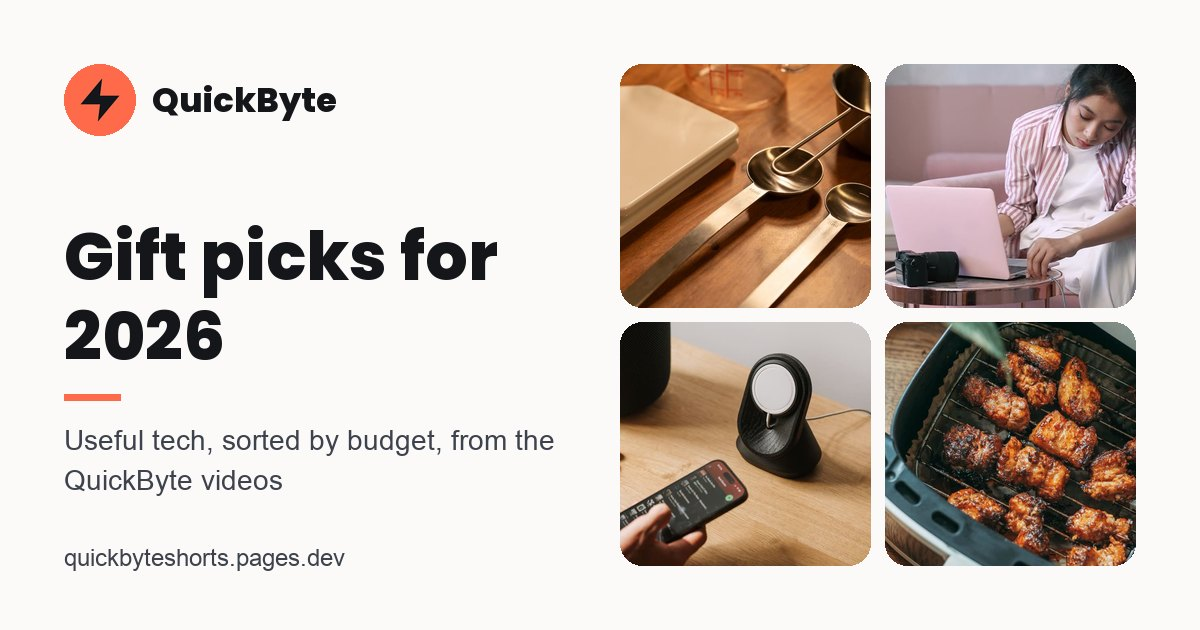
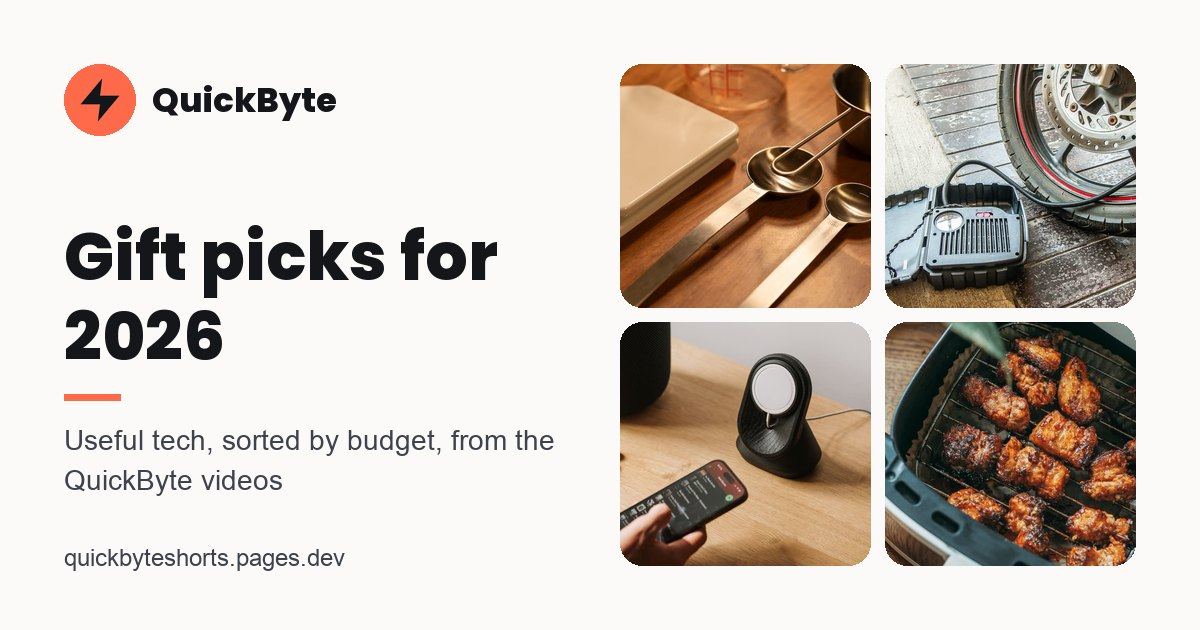
Automated cycle: update landing page

Changed region(s): [[0.74, 0.0905, 0.9558, 0.5127]]

diff --git a/docs/index.html b/docs/index.html
@@ -89,7 +89,7 @@ footer{color:var(--muted);font-size:.82rem;text-align:center;padding:24px 20px 3
 footer a{color:inherit}
 @media (max-width:520px){.season{font-size:1.45rem}.wrap{padding-top:26px}.feature .name{font-size:1.15rem}}
 </style>
-<script type="application/ld+json">{"@context": "https://schema.org", "@graph": [{"@type": "WebSite", "@id": "https://quickbyteshorts.pages.dev/#website", "name": "QuickByte", "url": "https://quickbyteshorts.pages.dev/", "description": "Short videos on which tech is worth buying, and which isn't"}, {"@type": "ItemList", "name": "Gift picks for 2026", "numberOfItems": 36, "itemListElement": [{"@type": "ListItem", "position": 1, "name": "Digital kitchen scale", "url": "https://quickbyteshorts.pages.dev/#pick-kitchen-scale"}, {"@type": "ListItem", "position": 2, "name": "ThermoPro TP19H instant-read thermometer", "url": "https://quickbyteshorts.pages.dev/#pick-thermopro-tp19h"}, {"@type": "ListItem", "position": 3, "name": "Tile Mate tracker", "url": "https://quickbyteshorts.pages.dev/#pick-tile-mate"}, {"@type": "ListItem", "position": 4, "name": "Anker Nano 30W USB-C charger", "url": "https://quickbyteshorts.pages.dev/#pick-anker-nano-charger"}, {"@type": "ListItem", "position": 5, "name": "UGREEN 240W USB-C cable (USB4)", "url": "https://quickbyteshorts.pages.dev/#pick-ugreen-usb4-cable"}, {"@type": "ListItem", "position": 6, "name": "65W two-port USB-C charger", "url": "https://quickbyteshorts.pages.dev/#pick-usb-c-65w-charger"}, {"@type": "ListItem", "position": 7, "name": "5-speed hand mixer", "url": "https://quickbyteshorts.pages.dev/#pick-hand-mixer"}, {"@type": "ListItem", "position": 8, "name": "Anker Nano power bank (10,000mAh)", "url": "https://quickbyteshorts.pages.dev/#pick-anker-nano-power-bank"}, {"@type": "ListItem", "position": 9, "name": "Redragon K552 mechanical keyboard", "url": "https://quickbyteshorts.pages.dev/#pick-redragon-k552-keyboard"}, {"@type": "ListItem", "position": 10, "name": "Echo Pop or Nest Mini", "url": "https://quickbyteshorts.pages.dev/#pick-smart-speaker"}, {"@type": "ListItem", "position": 11, "name": "4K streaming stick", "url": "https://quickbyteshorts.pages.dev/#pick-streaming-stick"}, {"@type": "ListItem", "position": 12, "name": "Belkin Qi2 magnetic charger", "url": "https://quickbyteshorts.pages.dev/#pick-belkin-qi2-charger"}, {"@type": "ListItem", "position": 13, "name": "Qi2 3-in-1 stand with Apple Watch charger", "url": "https://quickbyteshorts.pages.dev/#pick-qi2-3-in-1-stand"}, {"@type": "ListItem", "position": 14, "name": "IP67 clip-on Bluetooth speaker", "url": "https://quickbyteshorts.pages.dev/#pick-ip67-bluetooth-speaker"}, {"@type": "ListItem", "position": 15, "name": "Soundcore Liberty 4 NC earbuds", "url": "https://quickbyteshorts.pages.dev/#pick-soundcore-liberty-4-nc"}, {"@type": "ListItem", "position": 16, "name": "Variable-temperature gooseneck kettle", "url": "https://quickbyteshorts.pages.dev/#pick-gooseneck-kettle"}, {"@type": "ListItem", "position": 17, "name": "Cosori Pro LE 5-quart air fryer", "url": "https://quickbyteshorts.pages.dev/#pick-cosori-air-fryer-5qt"}, {"@type": "ListItem", "position": 18, "name": "Kodak Step mini photo printer", "url": "https://quickbyteshorts.pages.dev/#pick-kodak-step-printer"}, {"@type": "ListItem", "position": 19, "name": "Dual-basket air fryer (8 qt)", "url": "https://quickbyteshorts.pages.dev/#pick-dual-basket-air-fryer"}, {"@type": "ListItem", "position": 20, "name": "1080p mini projector with Google TV", "url": "https://quickbyteshorts.pages.dev/#pick-mini-projector-google-tv"}, {"@type": "ListItem", "position": 21, "name": "Wi-Fi photo frame", "url": "https://quickbyteshorts.pages.dev/#pick-wifi-photo-frame"}, {"@type": "ListItem", "position": 22, "name": "Baratza Encore burr grinder", "url": "https://quickbyteshorts.pages.dev/#pick-baratza-encore"}, {"@type": "ListItem", "position": 23, "name": "Kindle Paperwhite", "url": "https://quickbyteshorts.pages.dev/#pick-kindle-paperwhite"}, {"@type": "ListItem", "position": 24, "name": "MagicFiber microfiber cloths (6-pack)", "url": "https://quickbyteshorts.pages.dev/#pick-magicfiber-cloths"}, {"@type": "ListItem", "position": 25, "name": "Cordless tire inflator", "url": "https://quickbyteshorts.pages.dev/#pick-cordless-tire-inflator"}, {"@type": "ListItem", "position": 26, "name": "Wireless meat thermometer", "url": "https://quickbyteshorts.pages.dev/#pick-wireless-meat-thermometer"}, {"@type": "ListItem", "position": 27, "name": "1TB portable SSD (USB-C)", "url": "https://quickbyteshorts.pages.dev/#pick-portable-ssd-1tb"}, {"@type": "ListItem", "position": 28, "name": "Instax Mini instant camera", "url": "https://quickbyteshorts.pages.dev/#pick-instax-mini"}, {"@type": "ListItem", "position": 29, "name": "Sunrise alarm clock", "url": "https://quickbyteshorts.pages.dev/#pick-sunrise-alarm-clock"}, {"@type": "ListItem", "position": 30, "name": "Portable car jump starter", "url": "https://quickbyteshorts.pages.dev/#pick-portable-jump-starter"}, {"@type": "ListItem", "position": 31, "name": "Video doorbell with local storage", "url": "https://quickbyteshorts.pages.dev/#pick-video-doorbell-local"}, {"@type": "ListItem", "position": 32, "name": "Smart bird feeder with camera", "url": "https://quickbyteshorts.pages.dev/#pick-smart-bird-feeder"}, {"@type": "ListItem", "position": 33, "name": "Leave-in probe meat thermometer", "url": "https://quickbyteshorts.pages.dev/#pick-leave-in-meat-thermometer"}, {"@type": "ListItem", "position": 34, "name": "Samsung 870 EVO SSD (500GB)", "url": "https://quickbyteshorts.pages.dev/#pick-samsung-870-evo-ssd"}, {"@type": "ListItem", "position": 35, "name": "Robot vacuum with lidar", "url": "https://quickbyteshorts.pages.dev/#pick-lidar-robot-vacuum"}, {"@type": "ListItem", "position": 36, "name": "27-inch 1440p monitor", "url": "https://quickbyteshorts.pages.dev/#pick-monitor-27-1440p"}]}]}</script>
+<script type="application/ld+json">{"@context": "https://schema.org", "@graph": [{"@type": "WebSite", "@id": "https://quickbyteshorts.pages.dev/#website", "name": "QuickByte", "url": "https://quickbyteshorts.pages.dev/", "description": "Short videos on which tech is worth buying, and which isn't"}, {"@type": "ItemList", "name": "Gift picks for 2026", "numberOfItems": 36, "itemListElement": [{"@type": "ListItem", "position": 1, "name": "Digital kitchen scale", "url": "https://quickbyteshorts.pages.dev/#pick-kitchen-scale"}, {"@type": "ListItem", "position": 2, "name": "ThermoPro TP19H instant-read thermometer", "url": "https://quickbyteshorts.pages.dev/#pick-thermopro-tp19h"}, {"@type": "ListItem", "position": 3, "name": "Tile Mate tracker", "url": "https://quickbyteshorts.pages.dev/#pick-tile-mate"}, {"@type": "ListItem", "position": 4, "name": "Anker Nano 30W USB-C charger", "url": "https://quickbyteshorts.pages.dev/#pick-anker-nano-charger"}, {"@type": "ListItem", "position": 5, "name": "UGREEN 240W USB-C cable (USB4)", "url": "https://quickbyteshorts.pages.dev/#pick-ugreen-usb4-cable"}, {"@type": "ListItem", "position": 6, "name": "Cordless tire inflator", "url": "https://quickbyteshorts.pages.dev/#pick-cordless-tire-inflator"}, {"@type": "ListItem", "position": 7, "name": "65W two-port USB-C charger", "url": "https://quickbyteshorts.pages.dev/#pick-usb-c-65w-charger"}, {"@type": "ListItem", "position": 8, "name": "5-speed hand mixer", "url": "https://quickbyteshorts.pages.dev/#pick-hand-mixer"}, {"@type": "ListItem", "position": 9, "name": "Anker Nano power bank (10,000mAh)", "url": "https://quickbyteshorts.pages.dev/#pick-anker-nano-power-bank"}, {"@type": "ListItem", "position": 10, "name": "Redragon K552 mechanical keyboard", "url": "https://quickbyteshorts.pages.dev/#pick-redragon-k552-keyboard"}, {"@type": "ListItem", "position": 11, "name": "Echo Pop or Nest Mini", "url": "https://quickbyteshorts.pages.dev/#pick-smart-speaker"}, {"@type": "ListItem", "position": 12, "name": "4K streaming stick", "url": "https://quickbyteshorts.pages.dev/#pick-streaming-stick"}, {"@type": "ListItem", "position": 13, "name": "Belkin Qi2 magnetic charger", "url": "https://quickbyteshorts.pages.dev/#pick-belkin-qi2-charger"}, {"@type": "ListItem", "position": 14, "name": "Qi2 3-in-1 stand with Apple Watch charger", "url": "https://quickbyteshorts.pages.dev/#pick-qi2-3-in-1-stand"}, {"@type": "ListItem", "position": 15, "name": "IP67 clip-on Bluetooth speaker", "url": "https://quickbyteshorts.pages.dev/#pick-ip67-bluetooth-speaker"}, {"@type": "ListItem", "position": 16, "name": "Soundcore Liberty 4 NC earbuds", "url": "https://quickbyteshorts.pages.dev/#pick-soundcore-liberty-4-nc"}, {"@type": "ListItem", "position": 17, "name": "Variable-temperature gooseneck kettle", "url": "https://quickbyteshorts.pages.dev/#pick-gooseneck-kettle"}, {"@type": "ListItem", "position": 18, "name": "Cosori Pro LE 5-quart air fryer", "url": "https://quickbyteshorts.pages.dev/#pick-cosori-air-fryer-5qt"}, {"@type": "ListItem", "position": 19, "name": "Kodak Step mini photo printer", "url": "https://quickbyteshorts.pages.dev/#pick-kodak-step-printer"}, {"@type": "ListItem", "position": 20, "name": "Dual-basket air fryer (8 qt)", "url": "https://quickbyteshorts.pages.dev/#pick-dual-basket-air-fryer"}, {"@type": "ListItem", "position": 21, "name": "1080p mini projector with Google TV", "url": "https://quickbyteshorts.pages.dev/#pick-mini-projector-google-tv"}, {"@type": "ListItem", "position": 22, "name": "Wi-Fi photo frame", "url": "https://quickbyteshorts.pages.dev/#pick-wifi-photo-frame"}, {"@type": "ListItem", "position": 23, "name": "Baratza Encore burr grinder", "url": "https://quickbyteshorts.pages.dev/#pick-baratza-encore"}, {"@type": "ListItem", "position": 24, "name": "Kindle Paperwhite", "url": "https://quickbyteshorts.pages.dev/#pick-kindle-paperwhite"}, {"@type": "ListItem", "position": 25, "name": "MagicFiber microfiber cloths (6-pack)", "url": "https://quickbyteshorts.pages.dev/#pick-magicfiber-cloths"}, {"@type": "ListItem", "position": 26, "name": "Wireless meat thermometer", "url": "https://quickbyteshorts.pages.dev/#pick-wireless-meat-thermometer"}, {"@type": "ListItem", "position": 27, "name": "1TB portable SSD (USB-C)", "url": "https://quickbyteshorts.pages.dev/#pick-portable-ssd-1tb"}, {"@type": "ListItem", "position": 28, "name": "Instax Mini instant camera", "url": "https://quickbyteshorts.pages.dev/#pick-instax-mini"}, {"@type": "ListItem", "position": 29, "name": "Sunrise alarm clock", "url": "https://quickbyteshorts.pages.dev/#pick-sunrise-alarm-clock"}, {"@type": "ListItem", "position": 30, "name": "Portable car jump starter", "url": "https://quickbyteshorts.pages.dev/#pick-portable-jump-starter"}, {"@type": "ListItem", "position": 31, "name": "Video doorbell with local storage", "url": "https://quickbyteshorts.pages.dev/#pick-video-doorbell-local"}, {"@type": "ListItem", "position": 32, "name": "Smart bird feeder with camera", "url": "https://quickbyteshorts.pages.dev/#pick-smart-bird-feeder"}, {"@type": "ListItem", "position": 33, "name": "Leave-in probe meat thermometer", "url": "https://quickbyteshorts.pages.dev/#pick-leave-in-meat-thermometer"}, {"@type": "ListItem", "position": 34, "name": "Samsung 870 EVO SSD (500GB)", "url": "https://quickbyteshorts.pages.dev/#pick-samsung-870-evo-ssd"}, {"@type": "ListItem", "position": 35, "name": "Robot vacuum with lidar", "url": "https://quickbyteshorts.pages.dev/#pick-lidar-robot-vacuum"}, {"@type": "ListItem", "position": 36, "name": "27-inch 1440p monitor", "url": "https://quickbyteshorts.pages.dev/#pick-monitor-27-1440p"}]}]}</script>
 </head>
 <body>
 <div class="wrap">
@@ -98,7 +98,11 @@ footer a{color:inherit}
 <nav class="socials" aria-label="QuickByte on social media"><a href="https://www.youtube.com/@quickbytetips" target="_blank" rel="noopener me">YouTube</a><a href="https://www.tiktok.com/@quickbytetips" target="_blank" rel="noopener me">TikTok</a><a href="https://www.instagram.com/quickbytetips" target="_blank" rel="noopener me">Instagram</a></nav>
 <p class="disc">The Amazon links on this page are affiliate links. As an Amazon Associate I earn from qualifying purchases.</p>
 <main>
-<section class="latest" aria-labelledby="latest-h"><h2 id="latest-h">From recent videos</h2><div class="grid wide"><article class="pick compact"><div class="ph"><picture><source type="image/webp" srcset="img/qi2-3-in-1-charging-stand-with-apple-watch-charger-480.webp 480w, img/qi2-3-in-1-charging-stand-with-apple-watch-charger-800.webp 800w" sizes="160px"><img src="img/qi2-3-in-1-charging-stand-with-apple-watch-charger.jpg" alt="" width="800" height="600" fetchpriority="high" decoding="async"></picture></div><div class="body">
+<section class="latest" aria-labelledby="latest-h"><h2 id="latest-h">From today's video</h2><article class="feature"><div class="ph"><picture><source type="image/webp" srcset="img/cordless-tire-inflator-480.webp 480w, img/cordless-tire-inflator-800.webp 800w" sizes="(max-width:700px) calc(100vw - 40px), 500px"><img src="img/cordless-tire-inflator.jpg" alt="" width="800" height="600" fetchpriority="high" decoding="async"></picture></div><div class="body">
+<h3 class="name">Cordless tire inflator</h3>
+<p class="seen">From the video: Gifts for him under $50: three he&#x27;ll use before New Year&#x27;s</p><p class="note">You set the PSI and it stops on its own when the tire gets there, so no more coin-op air machines.</p>
+<div class="row"><a class="buy" href="https://www.amazon.com/s?k=cordless+tire+inflator&amp;tag=quickbyte0f-20" target="_blank" rel="sponsored nofollow noopener">See it on Amazon</a><span class="paid">Paid link</span></div>
+</div></article><h2>Also from recent videos</h2><div class="grid wide"><article class="pick compact"><div class="ph"><picture><source type="image/webp" srcset="img/qi2-3-in-1-charging-stand-with-apple-watch-charger-480.webp 480w, img/qi2-3-in-1-charging-stand-with-apple-watch-charger-800.webp 800w" sizes="160px"><img src="img/qi2-3-in-1-charging-stand-with-apple-watch-charger.jpg" alt="" width="800" height="600" loading="lazy" decoding="async"></picture></div><div class="body">
 <h3 class="name">Qi2 3-in-1 stand with Apple Watch charger</h3>
 <p class="seen">From: Gifts for dad: these 3-in-1 chargers look identical, only one charges his watch</p><p class="note">Charges an iPhone, AirPods and an Apple Watch overnight, because the watch gets its own puck instead of a flat pad.</p>
 <div class="row"><a class="buy" href="https://www.amazon.com/s?k=qi2+3+in+1+charging+station+apple+watch&amp;tag=quickbyte0f-20" target="_blank" rel="sponsored nofollow noopener">See it on Amazon</a><span class="paid">Paid link</span><a class="watch" href="https://www.youtube.com/shorts/kk6bP5S8-lk" target="_blank" rel="noopener">Watch the video</a></div>
@@ -106,10 +110,6 @@ footer a{color:inherit}
 <h3 class="name">Robot vacuum with lidar</h3>
 <p class="seen">From: Robot vacuum on sale? Check for lidar before you buy</p><p class="note">The spinning lidar turret maps your rooms, so it cleans in rows instead of bumping around and missing spots.</p>
 <div class="row"><a class="buy" href="https://www.amazon.com/s?k=lidar+robot+vacuum&amp;tag=quickbyte0f-20" target="_blank" rel="sponsored nofollow noopener">See it on Amazon</a><span class="paid">Paid link</span><a class="watch" href="https://www.youtube.com/shorts/zjNCF1It7sI" target="_blank" rel="noopener">Watch the video</a></div>
-</div></article><article class="pick compact"><div class="ph"><picture><source type="image/webp" srcset="img/ip67-clip-on-bluetooth-speaker-480.webp 480w, img/ip67-clip-on-bluetooth-speaker-800.webp 800w" sizes="160px"><img src="img/ip67-clip-on-bluetooth-speaker.jpg" alt="" width="800" height="600" loading="lazy" decoding="async"></picture></div><div class="body">
-<h3 class="name">IP67 clip-on Bluetooth speaker</h3>
-<p class="seen">From: Bluetooth speaker gift: check for IP67 before you buy</p><p class="note">IP67 means it can handle the beach, the shower and a dropped drink, and the clip hangs it off a bag.</p>
-<div class="row"><a class="buy" href="https://www.amazon.com/s?k=jbl+clip+5&amp;tag=quickbyte0f-20" target="_blank" rel="sponsored nofollow noopener">See it on Amazon</a><span class="paid">Paid link</span><a class="watch" href="https://www.youtube.com/shorts/ZeuI5HjxUjU" target="_blank" rel="noopener">Watch the video</a></div>
 </div></article></div></section><h1 class="season" id="gifts">Gift picks for 2026</h1><p class="season-sub">Each pick comes from a QuickByte video (a few of those videos are still on the way). Useful things, sensibly priced, that we'd tell a friend to buy. Sorted by budget.</p><nav class="jump" aria-label="Budgets"><a href="#under-25">Under $25</a><a href="#under-50">Under $50</a><a href="#under-100">Under $100</a><a href="#worth-the-splurge">Worth the splurge</a></nav><h2 id="under-25">Under $25</h2><div class="grid"><article class="pick" id="pick-kitchen-scale"><div class="ph"><picture><source type="image/webp" srcset="img/digital-kitchen-scale-480.webp 480w, img/digital-kitchen-scale-800.webp 800w" sizes="(max-width:640px) calc(100vw - 40px), 320px"><img src="img/digital-kitchen-scale.jpg" alt="" width="800" height="600" loading="lazy" decoding="async"></picture></div><div class="body">
 <h3 class="name">Digital kitchen scale</h3>
 <p class="note">Weighing flour instead of scooping it is the easiest way to make a recipe come out the same every time.</p>
@@ -134,7 +134,11 @@ footer a{color:inherit}
 <h3 class="name">MagicFiber microfiber cloths (6-pack)</h3>
 <p class="note">The only thing that should touch a screen. Cheap, washable, and a solid stocking stuffer.</p>
 <div class="row"><a class="buy" href="https://www.amazon.com/dp/B0050R67U0?tag=quickbyte0f-20" target="_blank" rel="sponsored nofollow noopener">See it on Amazon</a><span class="paid">Paid link</span></div>
-</div></article></div><h2 id="under-50">Under $50</h2><div class="grid"><article class="pick" id="pick-usb-c-65w-charger"><div class="ph"><picture><source type="image/webp" srcset="img/65w-2-port-usb-c-gan-charger-480.webp 480w, img/65w-2-port-usb-c-gan-charger-800.webp 800w" sizes="(max-width:640px) calc(100vw - 40px), 320px"><img src="img/65w-2-port-usb-c-gan-charger.jpg" alt="" width="800" height="600" loading="lazy" decoding="async"></picture></div><div class="body">
+</div></article></div><h2 id="under-50">Under $50</h2><div class="grid"><article class="pick" id="pick-cordless-tire-inflator"><div class="ph"><picture><source type="image/webp" srcset="img/cordless-tire-inflator-480.webp 480w, img/cordless-tire-inflator-800.webp 800w" sizes="(max-width:640px) calc(100vw - 40px), 320px"><img src="img/cordless-tire-inflator.jpg" alt="" width="800" height="600" loading="lazy" decoding="async"></picture></div><div class="body">
+<h3 class="name">Cordless tire inflator</h3>
+<p class="note">You set the PSI and it stops on its own when the tire gets there, so no more coin-op air machines.</p>
+<div class="row"><a class="buy" href="https://www.amazon.com/s?k=cordless+tire+inflator&amp;tag=quickbyte0f-20" target="_blank" rel="sponsored nofollow noopener">See it on Amazon</a><span class="paid">Paid link</span></div>
+</div></article><article class="pick" id="pick-usb-c-65w-charger"><div class="ph"><picture><source type="image/webp" srcset="img/65w-2-port-usb-c-gan-charger-480.webp 480w, img/65w-2-port-usb-c-gan-charger-800.webp 800w" sizes="(max-width:640px) calc(100vw - 40px), 320px"><img src="img/65w-2-port-usb-c-gan-charger.jpg" alt="" width="800" height="600" loading="lazy" decoding="async"></picture></div><div class="body">
 <h3 class="name">65W two-port USB-C charger</h3>
 <p class="note">One small brick can charge a USB-C laptop and a phone at the same time, so you pack one charger instead of three.</p>
 <div class="row"><a class="buy" href="https://www.amazon.com/s?k=65W+USB+C+GaN+charger+2+port&amp;tag=quickbyte0f-20" target="_blank" rel="sponsored nofollow noopener">See it on Amazon</a><span class="paid">Paid link</span><a class="watch" href="https://www.youtube.com/shorts/FMfNpGTLUkg" target="_blank" rel="noopener">Watch the video</a></div>
@@ -162,10 +166,6 @@ footer a{color:inherit}
 <h3 class="name">Belkin Qi2 magnetic charger</h3>
 <p class="note">Snaps into place so the phone charges at full speed instead of running warm on a misaligned pad.</p>
 <div class="row"><a class="buy" href="https://www.amazon.com/dp/B0F8LMHB64?tag=quickbyte0f-20" target="_blank" rel="sponsored nofollow noopener">See it on Amazon</a><span class="paid">Paid link</span><a class="watch" href="https://www.youtube.com/shorts/m6Fe35_G_mc" target="_blank" rel="noopener">Watch the video</a></div>
-</div></article><article class="pick" id="pick-cordless-tire-inflator"><div class="ph"><picture><source type="image/webp" srcset="img/cordless-tire-inflator-480.webp 480w, img/cordless-tire-inflator-800.webp 800w" sizes="(max-width:640px) calc(100vw - 40px), 320px"><img src="img/cordless-tire-inflator.jpg" alt="" width="800" height="600" loading="lazy" decoding="async"></picture></div><div class="body">
-<h3 class="name">Cordless tire inflator</h3>
-<p class="note">You set the PSI and it stops on its own when the tire gets there, so no more coin-op air machines.</p>
-<div class="row"><a class="buy" href="https://www.amazon.com/s?k=cordless+tire+inflator&amp;tag=quickbyte0f-20" target="_blank" rel="sponsored nofollow noopener">See it on Amazon</a><span class="paid">Paid link</span></div>
 </div></article></div><h2 id="under-100">Under $100</h2><div class="grid"><article class="pick" id="pick-qi2-3-in-1-stand"><div class="ph"><picture><source type="image/webp" srcset="img/qi2-3-in-1-charging-stand-with-apple-watch-charger-480.webp 480w, img/qi2-3-in-1-charging-stand-with-apple-watch-charger-800.webp 800w" sizes="(max-width:640px) calc(100vw - 40px), 320px"><img src="img/qi2-3-in-1-charging-stand-with-apple-watch-charger.jpg" alt="" width="800" height="600" loading="lazy" decoding="async"></picture></div><div class="body">
 <h3 class="name">Qi2 3-in-1 stand with Apple Watch charger</h3>
 <p class="note">Charges an iPhone, AirPods and an Apple Watch overnight, because the watch gets its own puck instead of a flat pad.</p>
@@ -254,7 +254,7 @@ footer a{color:inherit}
 <h3 class="name">27-inch 1440p monitor</h3>
 <p class="note">At 27 inches, 1440p keeps text sharp where 1080p starts to look soft.</p>
 <div class="row"><a class="buy" href="https://www.amazon.com/s?k=27+inch+1440p+monitor&amp;tag=quickbyte0f-20" target="_blank" rel="sponsored nofollow noopener">See it on Amazon</a><span class="paid">Paid link</span><a class="watch" href="https://www.youtube.com/shorts/zjIrW3NfS0I" target="_blank" rel="noopener">Watch the video</a></div>
-</div></article></div><p class="fine">We earn a small commission if you buy through these links, at no extra cost to you, and nobody pays to be on this page. Budget groups are based on typical prices when we chose each pick; Amazon shows the current price. Photos show the kind of product, not always the exact model.</p><h2 id="videos">Latest videos</h2><ul class="vids"><li><a href="https://www.youtube.com/shorts/kk6bP5S8-lk" target="_blank" rel="noopener"><span>Gifts for dad: these 3-in-1 chargers look identical, only one charges his watch</span><span>Watch</span></a></li><li><a href="https://www.youtube.com/shorts/zjNCF1It7sI" target="_blank" rel="noopener"><span>Robot vacuum on sale? Check for lidar before you buy</span><span>Watch</span></a></li><li><a href="https://www.youtube.com/shorts/2b41Ka2nOvw" target="_blank" rel="noopener"><span>Black Friday earbuds: last year&#x27;s model is often the better buy</span><span>Watch</span></a></li><li><a href="https://www.youtube.com/shorts/3Mfy_wOXxuo" target="_blank" rel="noopener"><span>Espresso machine gift? The grinder matters more than the machine</span><span>Watch</span></a></li><li><a href="https://www.youtube.com/shorts/rNfoulkLu_w" target="_blank" rel="noopener"><span>Don&#x27;t buy a $400 Black Friday laptop until you check the RAM</span><span>Watch</span></a></li><li><a href="https://www.youtube.com/shorts/ZeuI5HjxUjU" target="_blank" rel="noopener"><span>Bluetooth speaker gift: check for IP67 before you buy</span><span>Watch</span></a></li><li><a href="https://www.youtube.com/shorts/4L8kqLYQ27M" target="_blank" rel="noopener"><span>Black Friday: what&#x27;s usually worth buying, and what to wait on</span><span>Watch</span></a></li><li><a href="https://www.youtube.com/shorts/uaUo0FEHGJ0" target="_blank" rel="noopener"><span>A $10 smart plug can start your coffee, but only with this kind of switch</span><span>Watch</span></a></li><li><a href="https://www.youtube.com/shorts/FMfNpGTLUkg" target="_blank" rel="noopener"><span>One 65W USB-C charger can replace three bricks: check your laptop first</span><span>Watch</span></a></li><li><a href="https://www.youtube.com/shorts/TVMmbyH12_8" target="_blank" rel="noopener"><span>Meat thermometer for turkey: why a leave-in probe beats instant-read</span><span>Watch</span></a></li><li><a href="https://www.youtube.com/shorts/ueOGdI8QxfU" target="_blank" rel="noopener"><span>Black Friday &#x27;was&#x27; prices: check the price history first</span><span>Watch</span></a></li><li><a href="https://www.youtube.com/shorts/FFoRCtzThzQ" target="_blank" rel="noopener"><span>Dual basket air fryer: 8 quarts is really two 4-quart baskets</span><span>Watch</span></a></li></ul>
+</div></article></div><p class="fine">We earn a small commission if you buy through these links, at no extra cost to you, and nobody pays to be on this page. Budget groups are based on typical prices when we chose each pick; Amazon shows the current price. Photos show the kind of product, not always the exact model.</p><h2 id="videos">Latest videos</h2><ul class="vids"><li><a href="https://www.youtube.com/shorts/Dqy7DbZIE5k" target="_blank" rel="noopener"><span>Don&#x27;t buy a Black Friday doorbuster TV until you check the model number</span><span>Watch</span></a></li><li><a href="https://www.youtube.com/shorts/kk6bP5S8-lk" target="_blank" rel="noopener"><span>Gifts for dad: these 3-in-1 chargers look identical, only one charges his watch</span><span>Watch</span></a></li><li><a href="https://www.youtube.com/shorts/zjNCF1It7sI" target="_blank" rel="noopener"><span>Robot vacuum on sale? Check for lidar before you buy</span><span>Watch</span></a></li><li><a href="https://www.youtube.com/shorts/2b41Ka2nOvw" target="_blank" rel="noopener"><span>Black Friday earbuds: last year&#x27;s model is often the better buy</span><span>Watch</span></a></li><li><a href="https://www.youtube.com/shorts/3Mfy_wOXxuo" target="_blank" rel="noopener"><span>Espresso machine gift? The grinder matters more than the machine</span><span>Watch</span></a></li><li><a href="https://www.youtube.com/shorts/rNfoulkLu_w" target="_blank" rel="noopener"><span>Don&#x27;t buy a $400 Black Friday laptop until you check the RAM</span><span>Watch</span></a></li><li><a href="https://www.youtube.com/shorts/ZeuI5HjxUjU" target="_blank" rel="noopener"><span>Bluetooth speaker gift: check for IP67 before you buy</span><span>Watch</span></a></li><li><a href="https://www.youtube.com/shorts/4L8kqLYQ27M" target="_blank" rel="noopener"><span>Black Friday: what&#x27;s usually worth buying, and what to wait on</span><span>Watch</span></a></li><li><a href="https://www.youtube.com/shorts/uaUo0FEHGJ0" target="_blank" rel="noopener"><span>A $10 smart plug can start your coffee, but only with this kind of switch</span><span>Watch</span></a></li><li><a href="https://www.youtube.com/shorts/FMfNpGTLUkg" target="_blank" rel="noopener"><span>One 65W USB-C charger can replace three bricks: check your laptop first</span><span>Watch</span></a></li><li><a href="https://www.youtube.com/shorts/TVMmbyH12_8" target="_blank" rel="noopener"><span>Meat thermometer for turkey: why a leave-in probe beats instant-read</span><span>Watch</span></a></li><li><a href="https://www.youtube.com/shorts/ueOGdI8QxfU" target="_blank" rel="noopener"><span>Black Friday &#x27;was&#x27; prices: check the price history first</span><span>Watch</span></a></li></ul>
 </main>
 </div>
 <footer>QuickByte &middot; @quickbytetips<br>As an Amazon Associate I earn from qualifying purchases. Amazon and the Amazon logo are trademarks of
